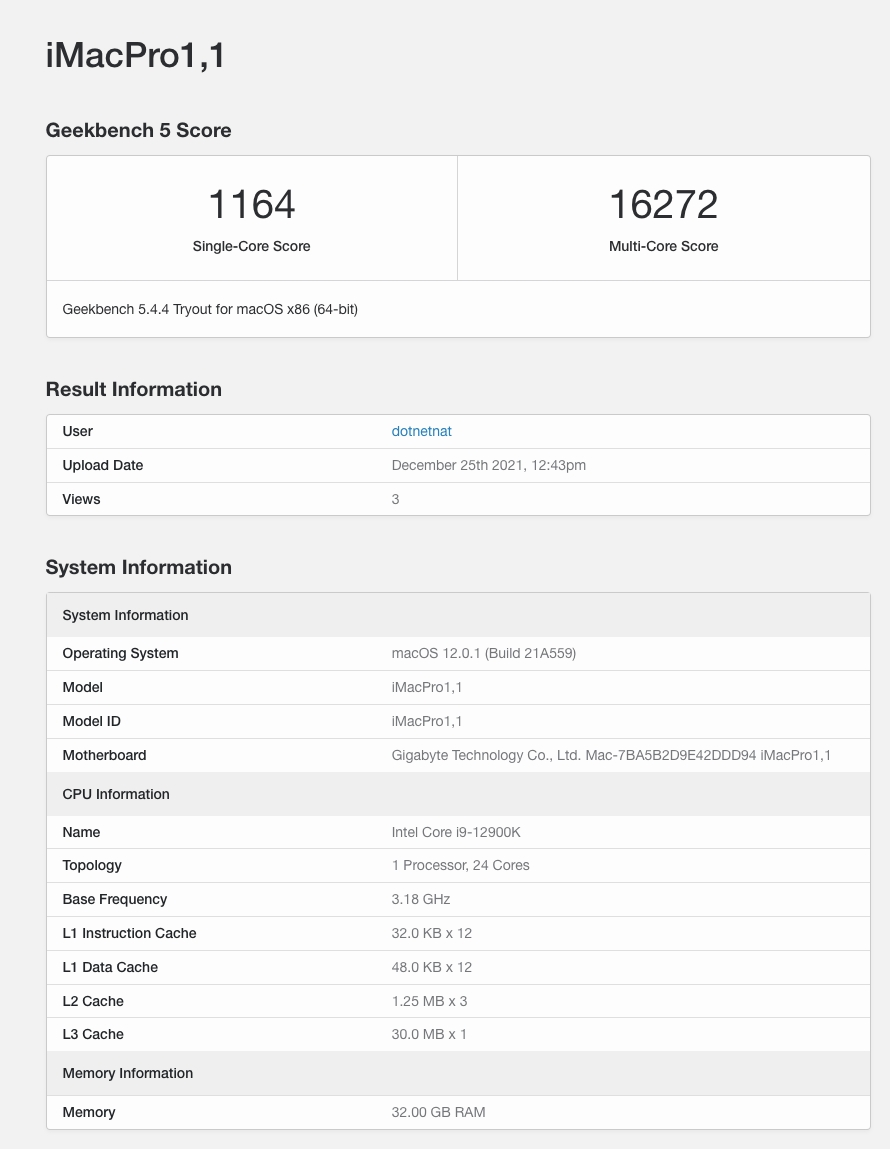
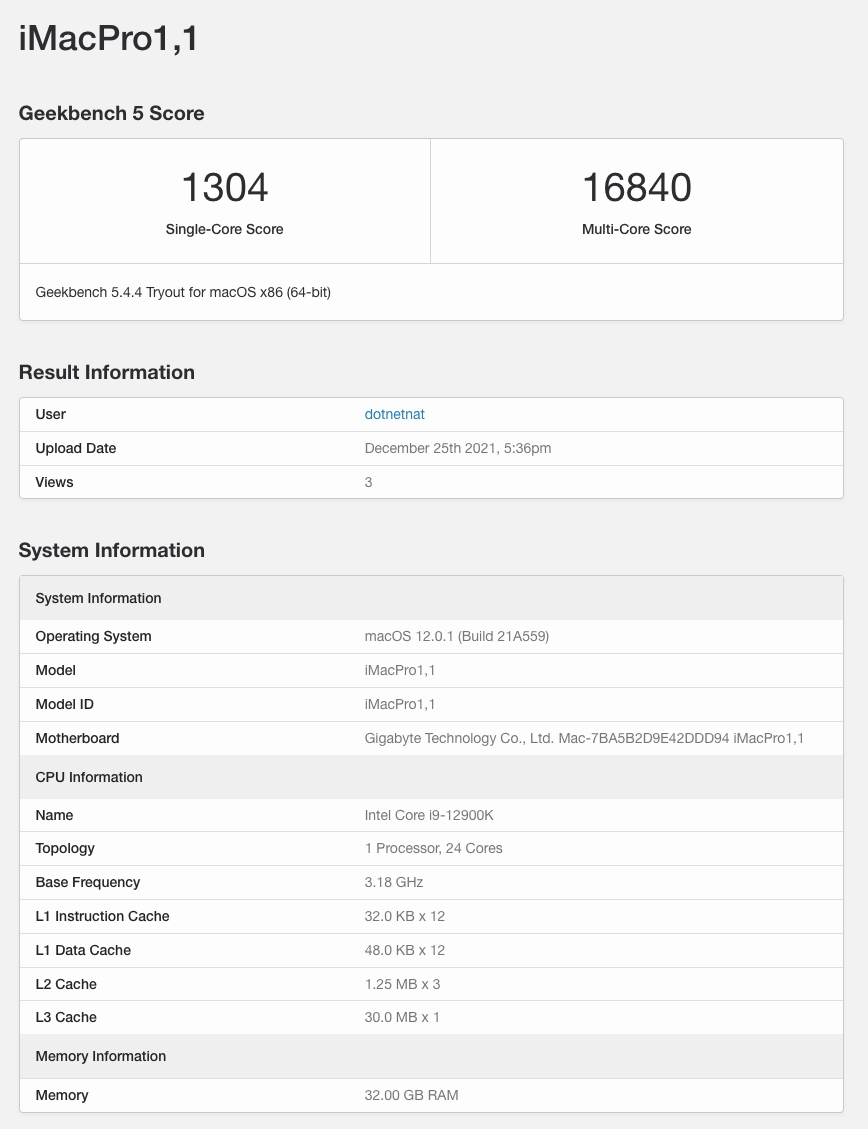
update benchmark

diff --git a/README.md b/README.md
@@ -9,7 +9,7 @@ RAM : 2 x Crucial 16GB Unbuffered DDR5 4800MHz CL40 DIMM / OC 5400
 
 ### Monterey
 ##### GeekBench 5
-https://browser.geekbench.com/v5/cpu/11798216
+https://browser.geekbench.com/v5/cpu/11802004
 ![Screenshot](Resources/1.1.jpg)
 ![Screenshot](Resources/1.jpg)
 ![Screenshot](Resources/2.jpg)
